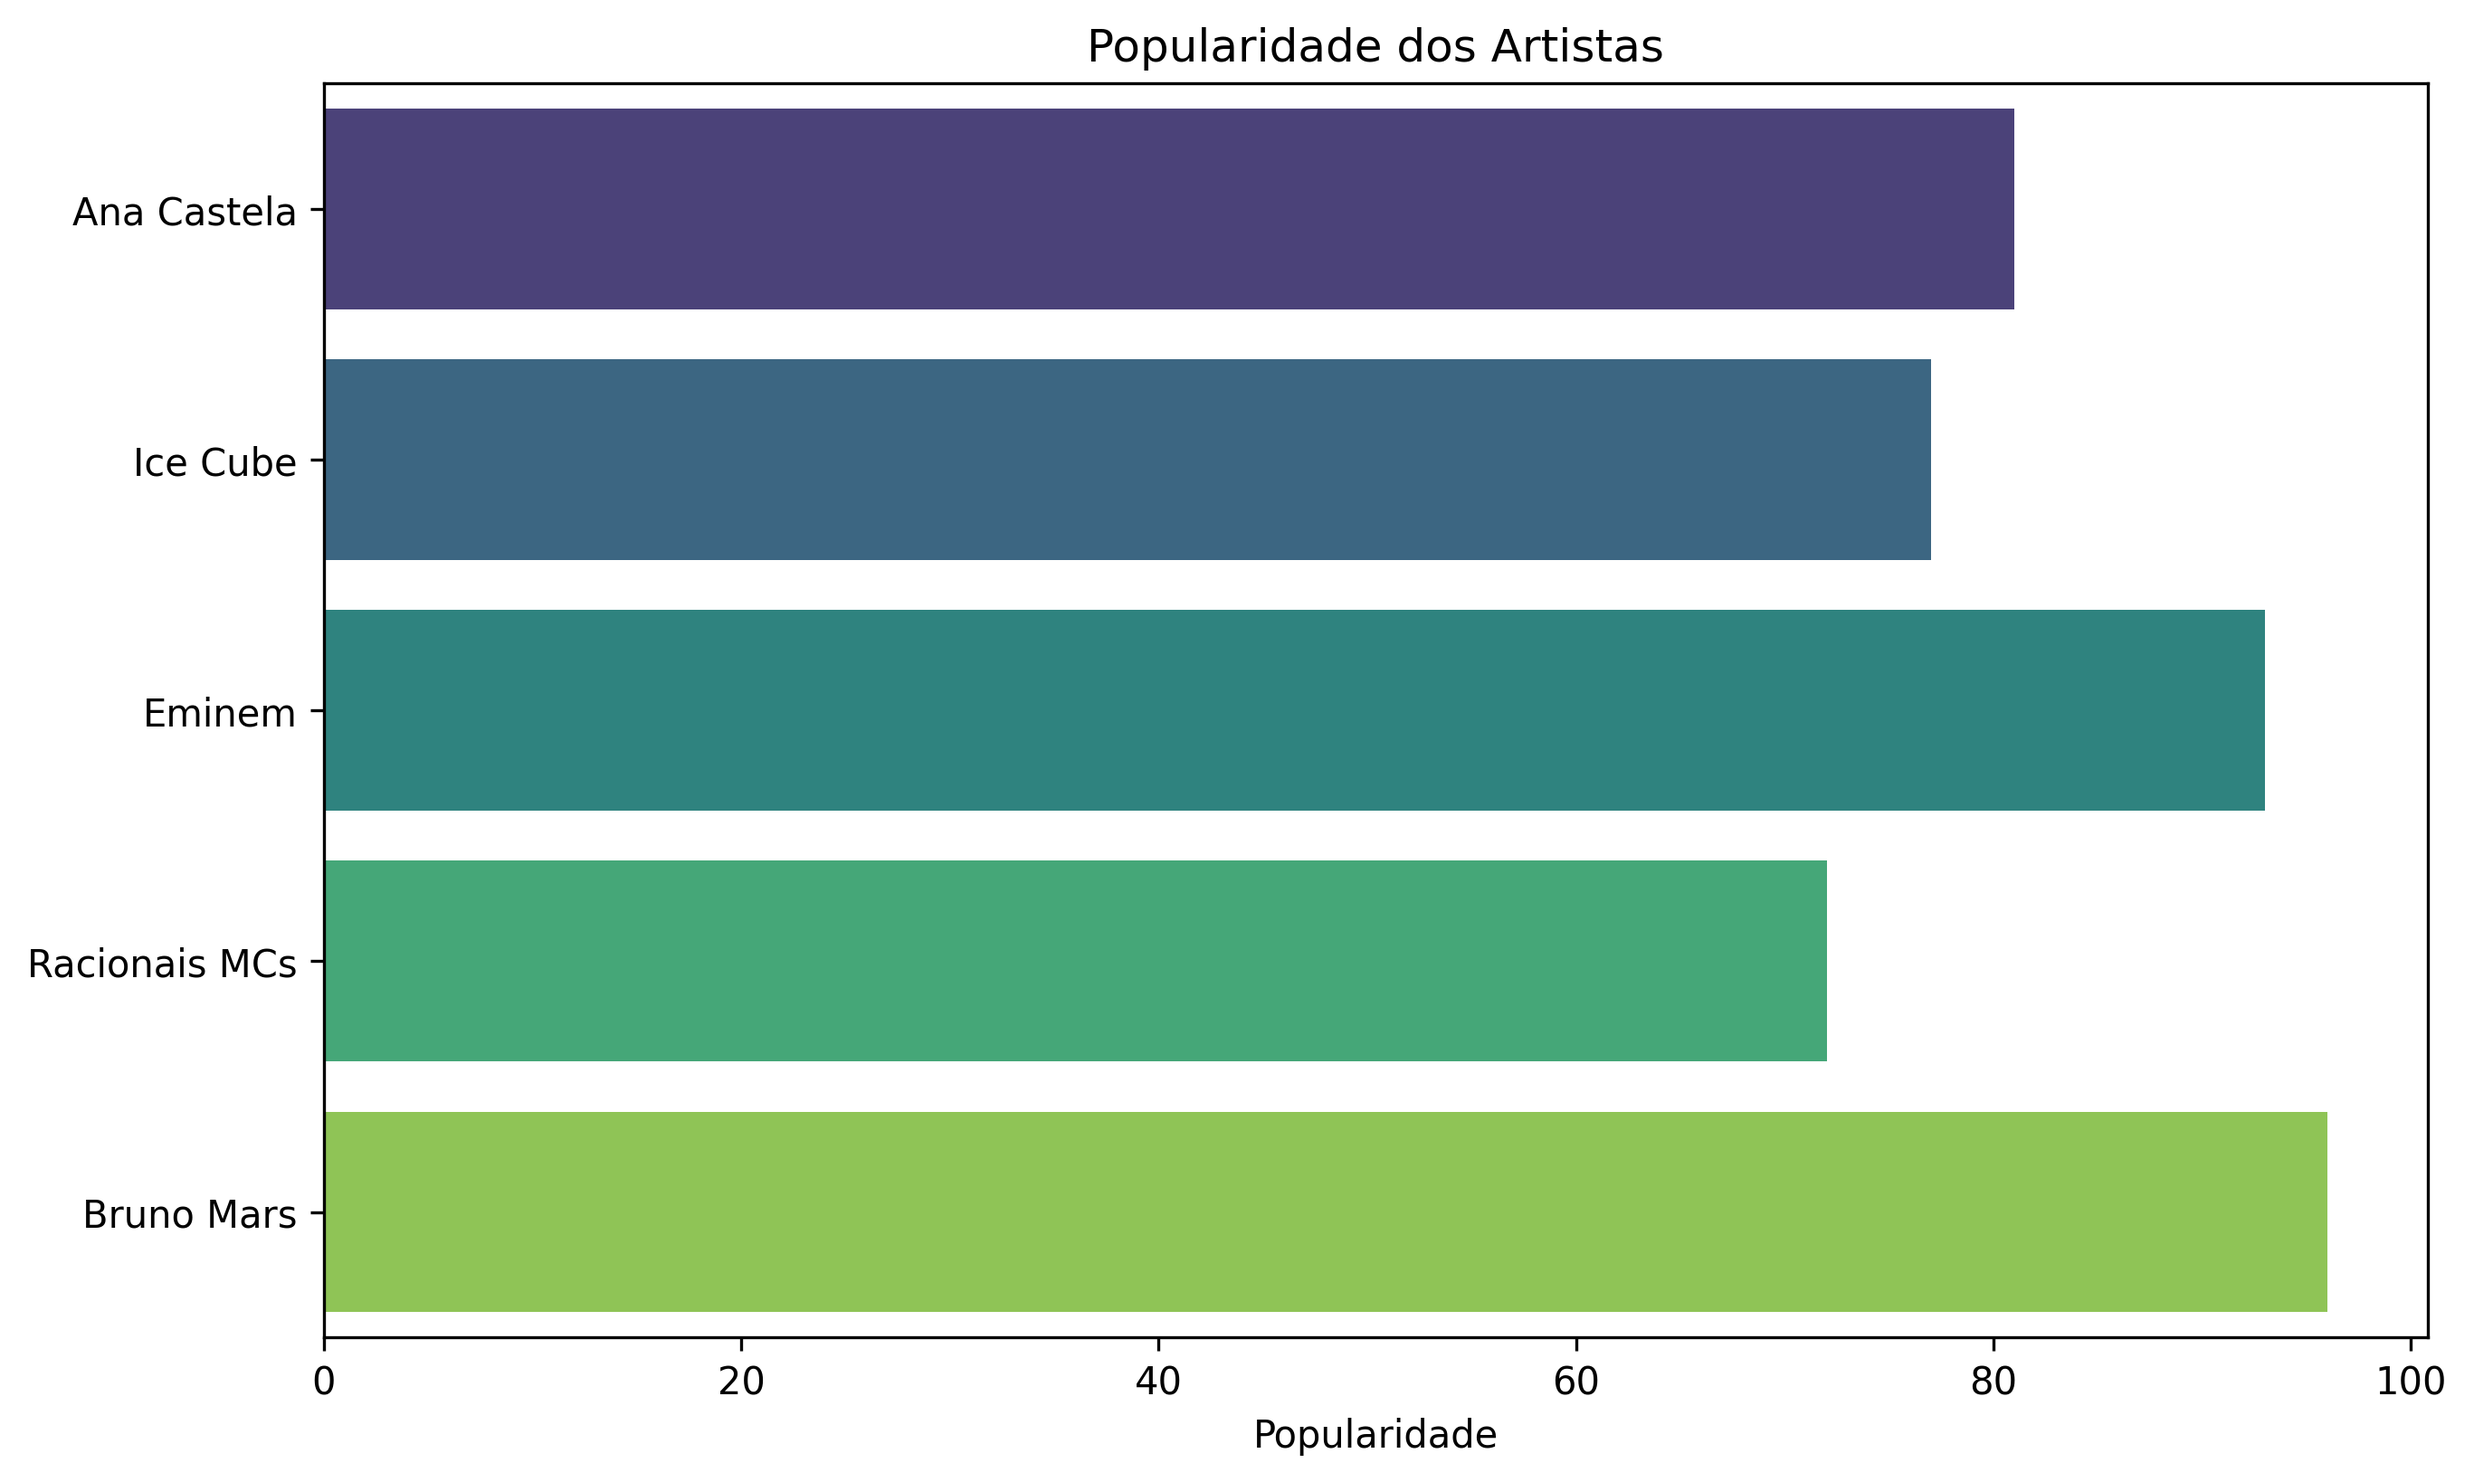
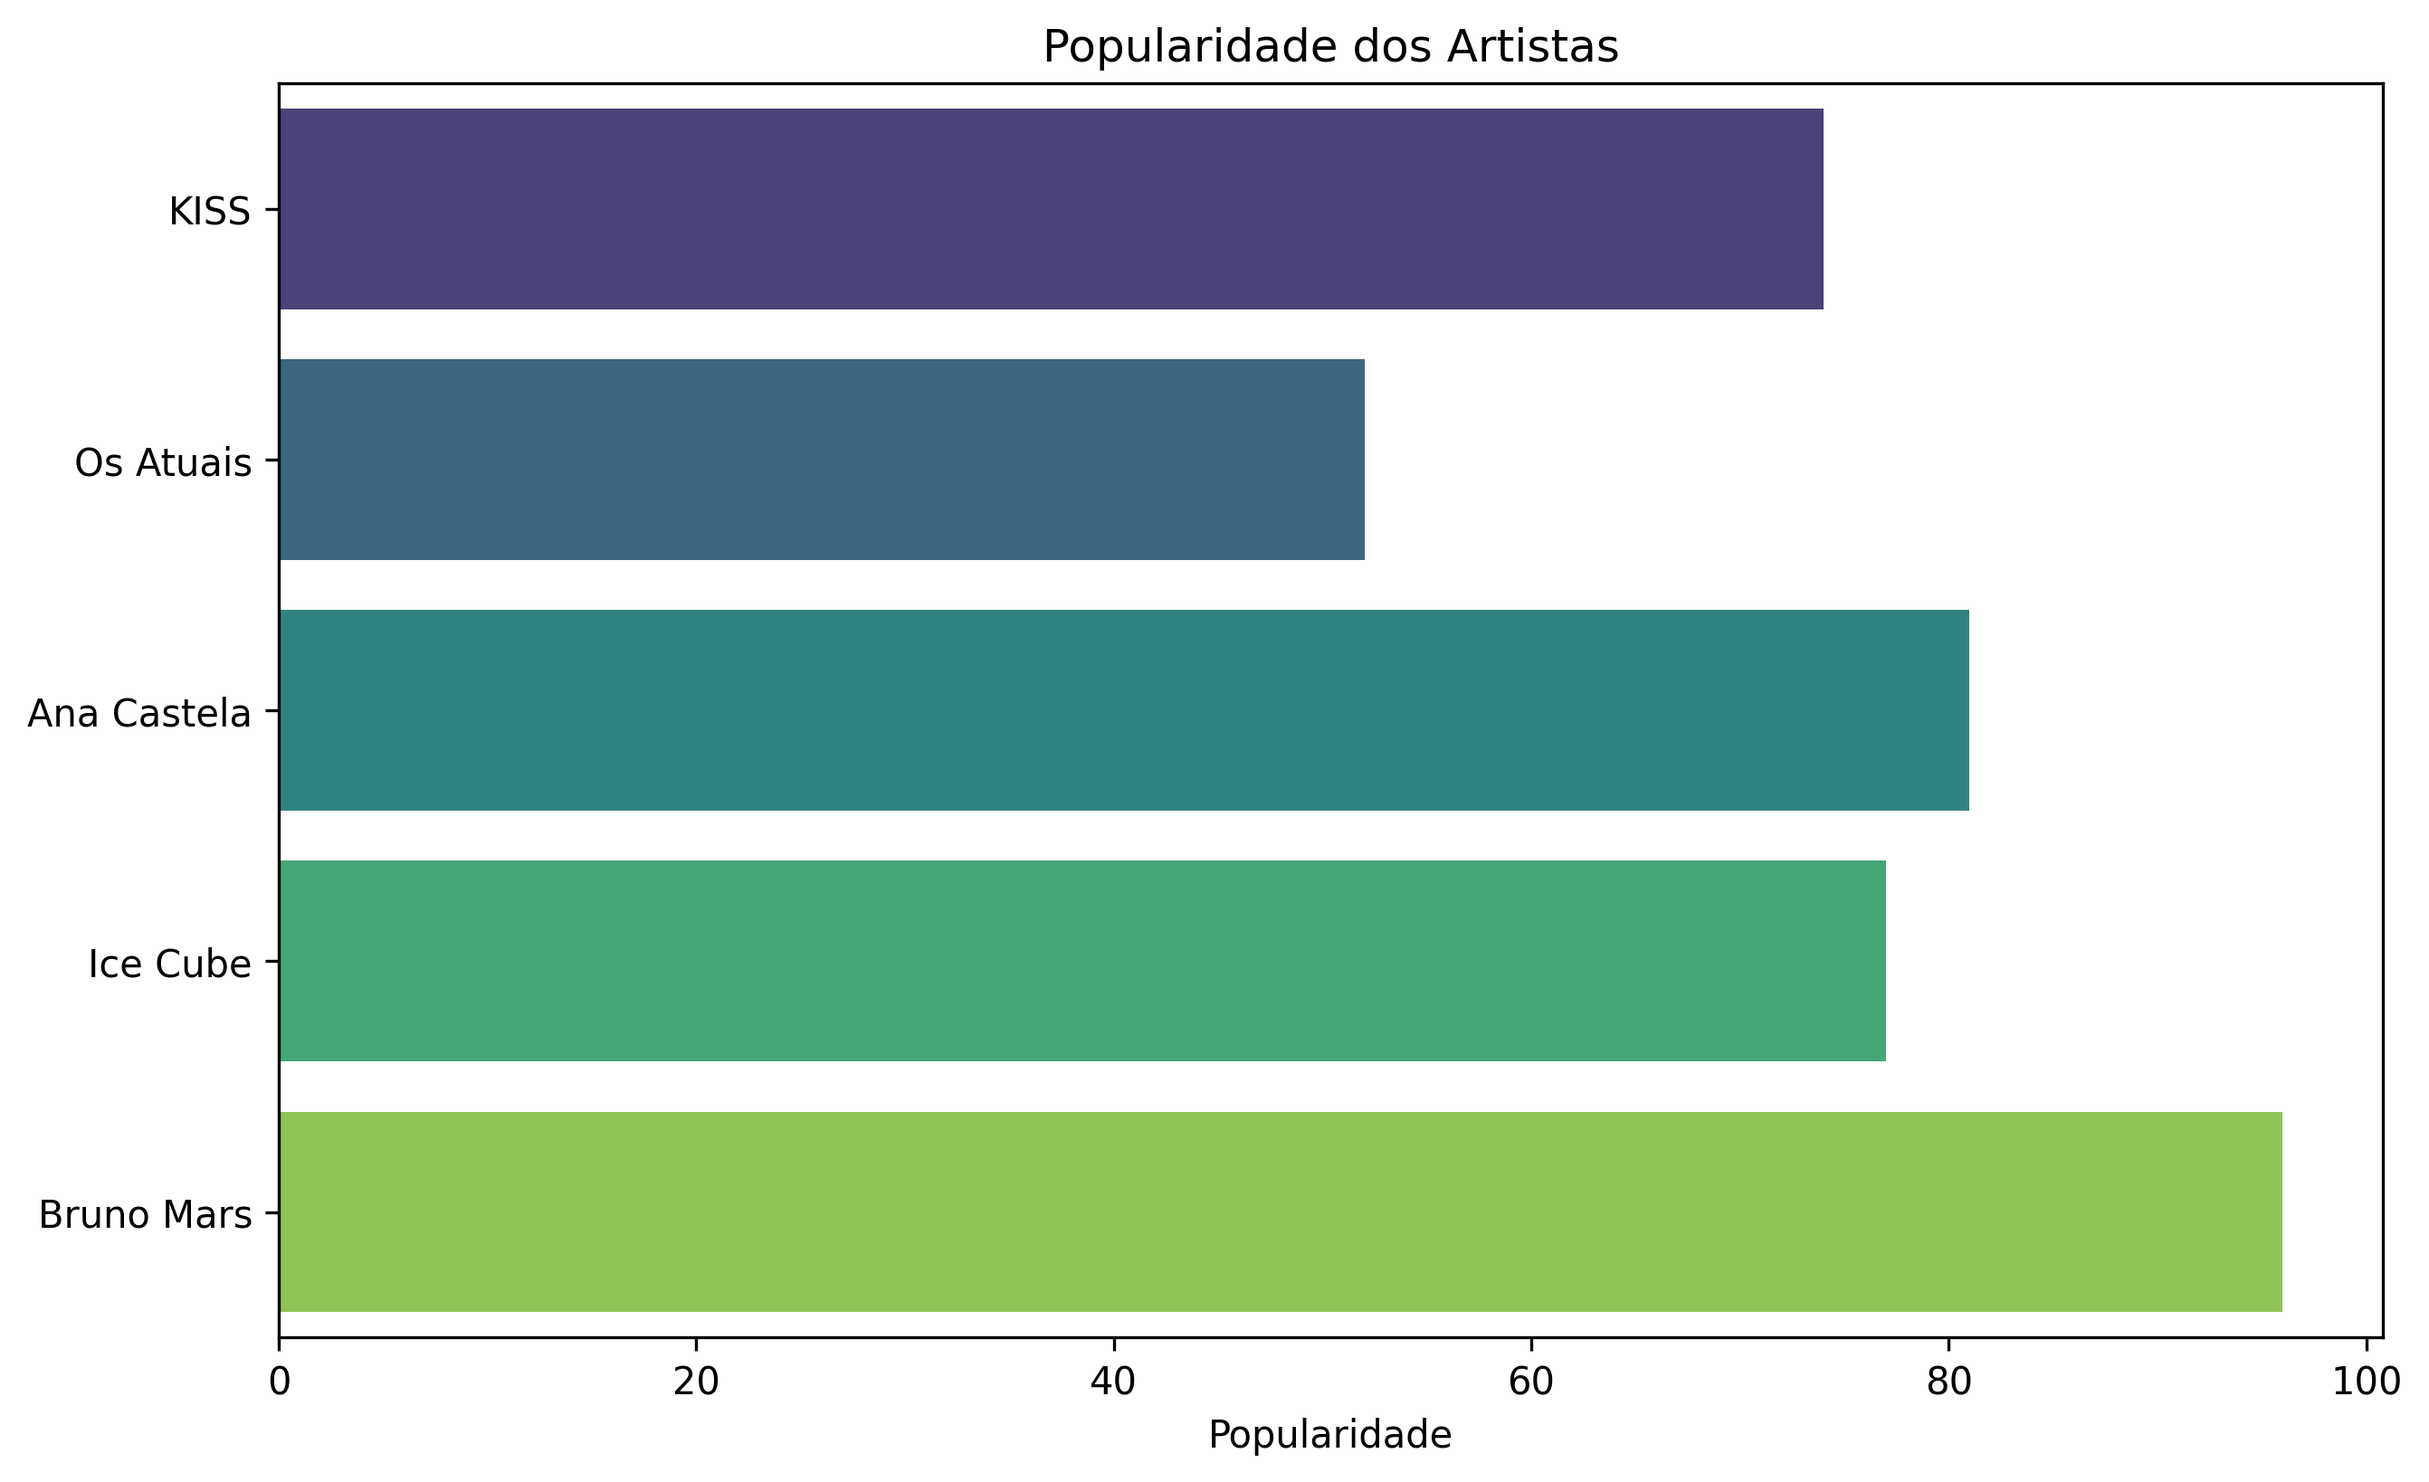
Adjust Functions

diff --git a/App/templates/index.html b/App/templates/index.html
@@ -24,9 +24,6 @@
                 <li class="nav-item">
                     <a class="nav-link" href="{{ url_for('Busca.buscaArtist') }}">Buscar artista</a>
                 </li>
-                <li class="nav-item">
-                    <a class="nav-link" href="{{ url_for('Recomendacao.recomendation') }}">Recomendações</a>
-                </li>
             </ul>
             <span class="navbar-text">
               HeadPhone Stats
@@ -92,49 +89,6 @@
             <iframe width="100%" height="300" scrolling="no" frameborder="no" allow="autoplay" src="https://w.soundcloud.com/player/?url=https%3A//api.soundcloud.com/tracks/115897977&color=%23ff5500&auto_play=false&hide_related=false&show_comments=false&show_user=true&show_reposts=false&show_teaser=true&visual=true"></iframe><div style="font-size: 10px; color: #cccccc;line-break: anywhere;word-break: normal;overflow: hidden;white-space: nowrap;text-overflow: ellipsis; font-family: Interstate,Lucida Grande,Lucida Sans Unicode,Lucida Sans,Garuda,Verdana,Tahoma,sans-serif;font-weight: 100;"><a href="https://soundcloud.com/dosill" title="J_on_J" target="_blank" style="color: #cccccc; text-decoration: none;">J_on_J</a> · <a href="https://soundcloud.com/dosill/rap-god-eminem" title="Rap God - Eminem" target="_blank" style="color: #cccccc; text-decoration: none;">Rap God - Eminem</a></div>
           </div>
         </figure>
-      </div>
-    </div>
-    <div class="container my-3 my-sm-5">
-      <h1 class="text-center mb-md-4">
-        Descubra
-      </h1>
-      <div class="row">
-        <div class="col-12 col-md-6 col-lg-4">
-          <p class="lead text center">
-            Descubra milhares de artistas, álbuns e músicas. A nossa ferramenta de pesquisa 
-            possibilita a descoberta de todas as informações por trás das trilhas sonoras mais íconicas.
-            Tudo personalizado para você!
-          </p>
-          <div class="container text-center">
-            <a href="{{ url_for('Busca.buscaArtist') }}" class="text-bg-light page-link">
-            Tente<img src="{{ url_for('static', filename='img/lupa.png') }}" alt="Search" width="25px">
-            </a>
-          </div>
-        </div>
-        <div class="col-12 col-md-6 col-lg-4">
-          <p class="lead text center">
-            Descobrindo os seus próprios gostos, pela integração com o Spotify, você pode saber 
-            o seu artista mais ouvido, quantos minutos você ouviu durante o mês, quais sãos as suas músicas favoritas 
-            e muito mais!
-          </p>
-          <div class="container text-center">
-            <a href="{{ url_for('Recomendacao.recomendation') }}" class="text-bg-light page-link">
-            Experimente<img src="{{ url_for('static', filename='img/arrow-arrow.png') }}" alt="Search" width="25px">
-            </a>
-          </div>
-        </div>
-        <div class="col-12 col-md-6 col-lg-4">
-          <p class="lead text center">
-            Descubra os gêneros mais ouvidos em cada época marcante da história da música. 
-            Uma visão geral e panorâmica sobre toda a história da música e uma visão específica de cada
-            gênero e banda mais relevante. 
-          </p>
-          <div class="container text-center">
-            <a href="#" class="text-bg-light page-link">
-            Veja<img src="{{ url_for('static', filename='img/grafico-de-barras.png') }}" alt="Search" width="25px">
-            </a>
-          </div>
-        </div>
       </div>
     </div>
 </div>

diff --git a/App/templates/busca.html b/App/templates/busca.html
@@ -22,9 +22,6 @@
                     <li class="nav-item">
                         <a class="nav-link active" href="{{ url_for('Busca.buscaArtist') }}">Buscar artista</a>
                     </li>
-                    <li class="nav-item">
-                        <a class="nav-link" href="{{ url_for('Recomendacao.recomendation') }}">Recomendações</a>
-                    </li>
                 </ul>
                 <span class="navbar-text">
                   HeadPhone Stats
@@ -140,19 +137,21 @@
               </div>
             </div>
           </div>
-        </div>
+        </div>  
 
         <br>
-
+ 
         <div class="row justify-content-center mt-5">
           <div class="col-12 col-md-10">
               <h3 class="text-center">Quão popular {{ busca }} é em relação a suas últimas pesquisas</h3>
-              <div class="card">
-                  <div class="card-body">
-                      <canvas id="popularityChart" style="max-height: 400px;">
-                        <img src="{{ url_for('static', filename='ArchImg/grafico_popularidade_pesquisaSkillet.png') }}" alt="Gráfico de Popularidade" width="100%">
-                      </canvas>
+              <div class="row justify-content-center mt-5">
+                <form action="{{ url_for('Busca.graficoPNG') }}" method="GET">
+                  <div class="text-center mb-md-4">
+                    <button class="btn btn-primary btn-lg">
+                      Veja o Gráfico
+                    </button>
                   </div>
+                </form>
               </div>
           </div>
         </div>

diff --git a/App/Controllers/WebServiceSpotify.py b/App/Controllers/WebServiceSpotify.py
@@ -151,37 +151,39 @@ def toptracks():
     else:
         print(f"Erro: {response.status_code} - {response.json()}")
         return None
-    
+
+# API TORNOU-SE OBSOLETA NO DIA 28/11/2024
+
 # busca recomendações pelo id do artista pesquisado agora 
-def recomendations():
+# def recomendations():
 
-    if not session or 'idSpotify' not in session or 'token' not in session:
-        mensagem = "Erro"
-        return mensagem
+#     if not session or 'idSpotify' not in session or 'token' not in session:
+#         mensagem = "Erro"
+#         return mensagem
 
-    recomendedArtists = []
-    idSpotify = session['idSpotify']
-    token = session['token']
-    headers = {
-        'Authorization': f'Bearer {token}'
-    }
+#     recomendedArtists = []
+#     idSpotify = session['idSpotify']
+#     token = session['token']
+#     headers = {
+#         'Authorization': f'Bearer {token}'
+#     }
 
-    response = requests.get(f'https://api.spotify.com/v1/artists/{idSpotify}/related-artists', headers=headers)
+#     response = requests.get(f'https://api.spotify.com/v1/artists/{idSpotify}/related-artists', headers=headers)
     
-    if response.status_code == 200:
-        retorno = response.json()
+#     if response.status_code == 200:
+#         retorno = response.json()
 
-        for artist in retorno.get('artists', []):
-            dictArtistReco = {'Nome': artist['name'], 'id': artist['id'], 'image':artist['images'][0]}
-            recomendedArtists.append(dictArtistReco)
+#         for artist in retorno.get('artists', []):
+#             dictArtistReco = {'Nome': artist['name'], 'id': artist['id'], 'image':artist['images'][0]}
+#             recomendedArtists.append(dictArtistReco)
 
 
 
-        return recomendedArtists
+#         return recomendedArtists
     
-    else:
-        mensagem = "Erro"
-        return mensagem
+#     else:
+#         mensagem = "Erro"
+#         return mensagem
     
 def grafico():
     
@@ -189,15 +191,9 @@ def grafico():
 
     graficos = gerarGraficoBusca(dados)
 
-    return graficos
-
-def open_file():
     current_dir = os.path.dirname(__file__)
-    path = os.path.abspath(os.path.join(current_dir, '..', 'Static', 'ArchImg'))
+    path = os.path.abspath(os.path.join(current_dir, '..', 'Static', graficos))
 
-    image_filename = f'grafico_popularidade_pesquisa{session['dictSpotifyMain'][0]["Nome"]}.png'
-    image_path = os.path.join(path, image_filename)
-
-    return send_file(image_path, as_attachment=True)
+    return path
 
 

diff --git a/App/routes/busca/buscaRoute.py b/App/routes/busca/buscaRoute.py
@@ -22,9 +22,24 @@ def buscaArtist():
             buscaSpotify = buscaArtistaSpotify()
             TopTracks = toptracks()
             Graficos = grafico()
+            session['PathGrafico'] = Graficos
         else:
             pass
 
         return render_template('busca.html', busca = busca, discos = discos, buscaSpotify= buscaSpotify, TopTracks=TopTracks, Graficos=Graficos)
     
     return render_template('busca.html', busca = busca)
+
+@BuscMSZ.route('/Busca/Grafico', methods=['GET'])
+def graficoPNG():
+
+    path = session['PathGrafico']
+
+    if path:
+        try:
+            return send_file(path, mimetype='image/png')
+        except FileNotFoundError:
+            return "Arquivo não encontrado", 404
+    else:
+        return "Caminho do gráfico não definido na sessão", 400
+    

diff --git a/App/Controllers/Graficos.py b/App/Controllers/Graficos.py
@@ -8,7 +8,7 @@ db = DatabaseConnection(host="localhost", dbname="pesquisaHPS", user="postgres",
 
 def dadosGraficoBusca():
 
-    query = (f"select artist_name, popularity, followers, urlimg from artists where artist_name != '{session['dictSpotifyMain'][0]['Nome']}' order by id_artist desc limit 4;")
+    query = (f"select artist_name, popularity, followers, urlimg from artists where artist_name != '{session['dictSpotifyMain'][0]['Nome']}' order by data_insert desc limit 4;")
 
     data = db.query_data(query)
 

diff --git a/App/main.py b/App/main.py
@@ -1,7 +1,6 @@
 from flask import Flask
 from routes.home.homeRoute import *
 from routes.busca.buscaRoute import *
-from routes.recomendations.recomendacao import *
 import os 
 
 load_dotenv()
@@ -18,6 +17,3 @@ mhsApp.register_blueprint(Logon)
 
 mhsApp.register_blueprint(BuscMSZ)
 
-#Registro da rota de Recomendações
-
-mhsApp.register_blueprint(Recomendation)

diff --git a/App/run.py b/App/run.py
@@ -1,3 +1,4 @@
 from main import mhsApp
+from Controllers.WebServiceSpotify import *
 
 mhsApp.run(debug=True)
